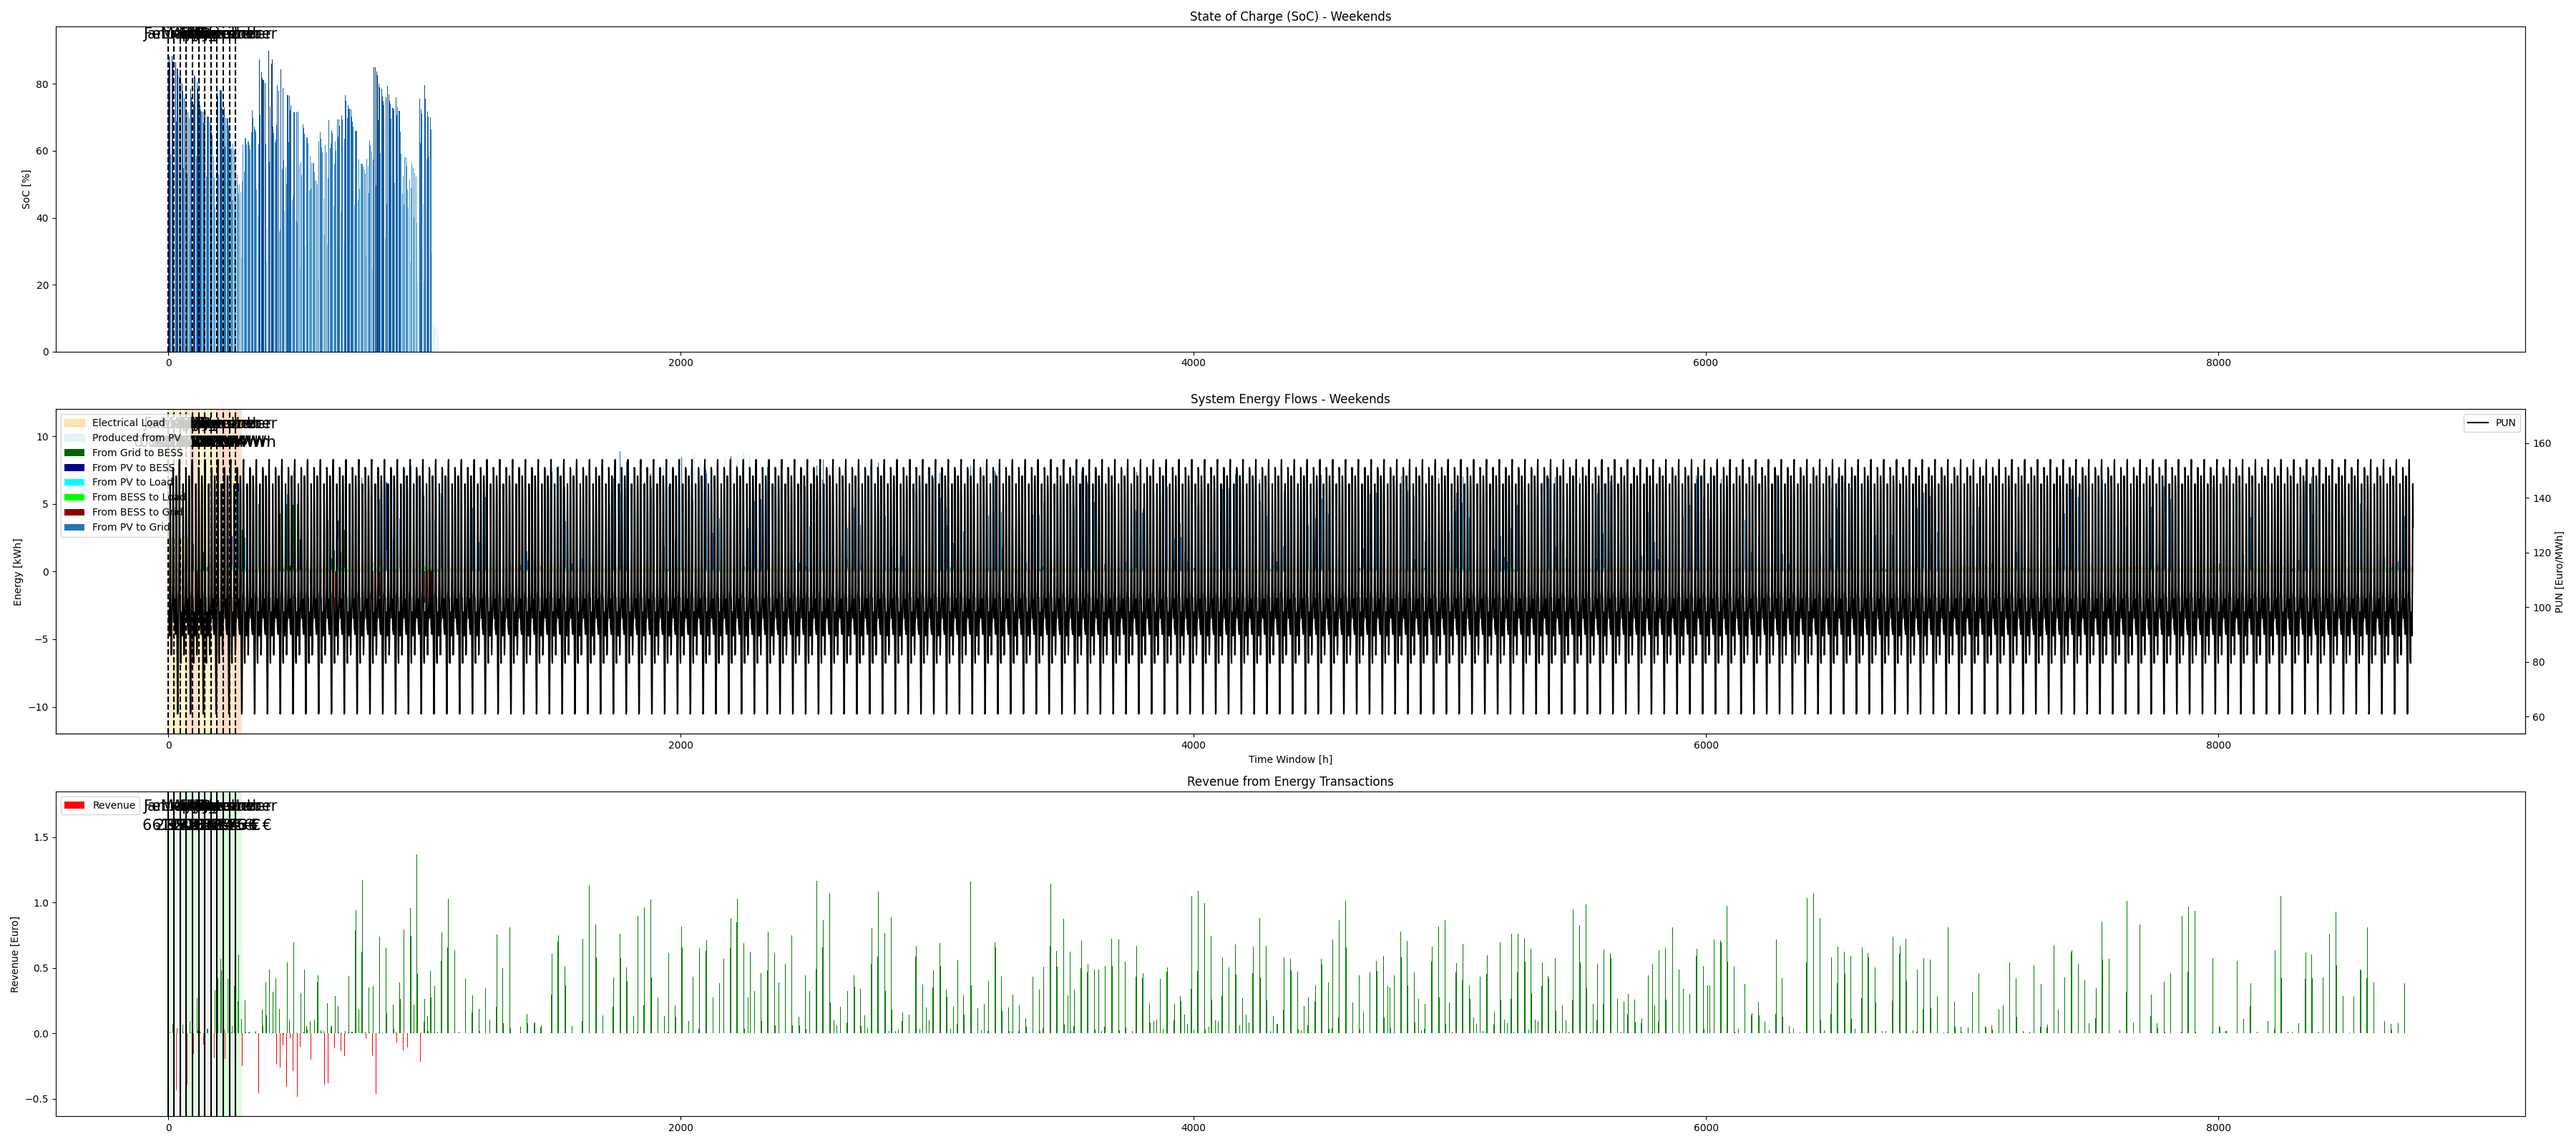
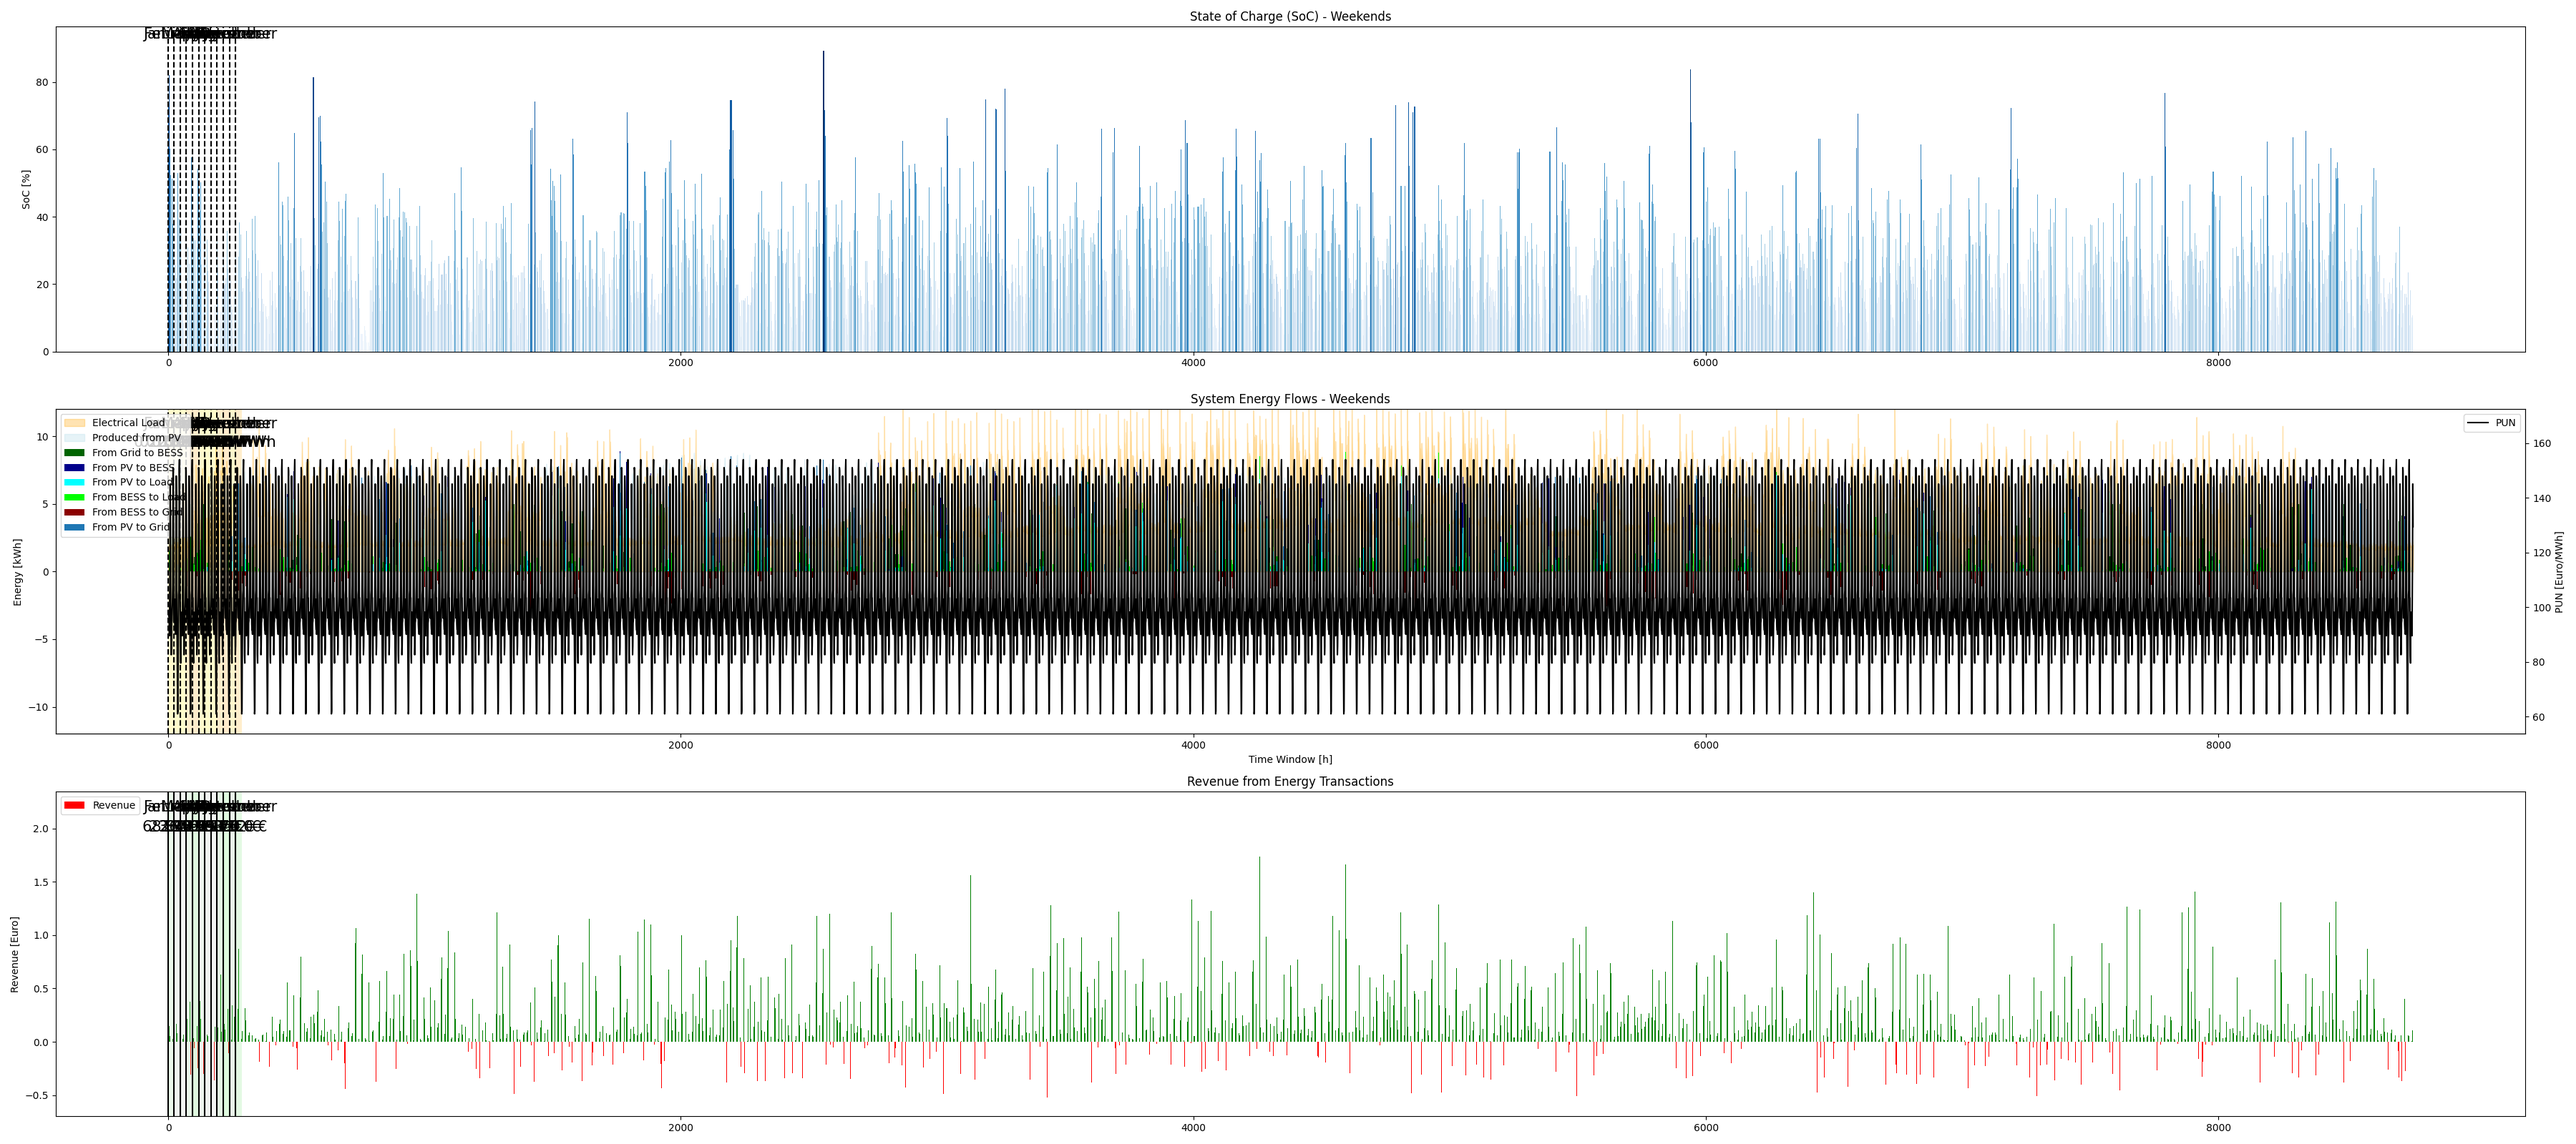
Working on long simulation tests

diff --git a/bess_optimization/Long Simulation/main_l.py b/bess_optimization/Long Simulation/main_l.py
@@ -18,14 +18,14 @@ import numpy as np  # Numerical operations
 import json  # JSON file handling
 from pymoo.core.problem import StarmapParallelization  # Parallelization for optimization
 from multiprocessing import Pool, cpu_count  # Multiprocessing utilities
-from objective_function_l import Revenues  # Objective function for revenue calculation
-from configuration_l import pop_size, soc_0, time_window, plot  # Configuration parameters
-from BESS_model_l import charge_rate_interpolated_func, discharge_rate_interpolated_func, size, technology, BESS_model  # BESS model functions and parameters
-from Economic_parameters_l import PUN_timeseries  # Economic parameters for pricing
-from Optimizer_l import Optimizer  # Optimization class
-from argparser_l import output_json_path, range_str, soc_min, power_energy, POD_power  # Argument parser parameters
-from Plots_l import EnergyPlots  # Plotting utilities
-from PV_l import pv_production  # Photovoltaic production data
+from objective_function import Revenues  # Objective function for revenue calculation
+from configuration import pop_size, soc_0, time_window, plot  # Configuration parameters
+from BESS_model import charge_rate_interpolated_func, discharge_rate_interpolated_func, size, technology, BESS_model  # BESS model functions and parameters
+from Economic_parameters import PUN_timeseries  # Economic parameters for pricing
+from Optimizer import Optimizer  # Optimization class
+from argparser import output_json_path, range_str, soc_min, power_energy, POD_power  # Argument parser parameters
+from Plots import EnergyPlots  # Plotting utilities
+from PV import pv_production  # Photovoltaic production data
 import subprocess
 
 # CREATION OF CLASS MAIN
@@ -94,7 +94,7 @@ class Main:
 
 
         # GET LOAD DATA
-        from Load_l import data
+        from Load import data
 
         # CALCULATE AND PRINT REVENUES
         self.calculate_and_print_revenues(self.charged_energy, self.discharged_energy, self.taken_from_grid,
@@ -117,11 +117,11 @@ class Main:
         Returns:
             tuple: Contains state of charge, charged energy, discharged energy, and other relevant data.
         """
-        from Load_l import data
-        from argparser_l import n_cycles  # Import number of cycles
-        from BESS_model_l import degradation
-        from argparser_l import n_cycles
-        from argparser_l import soc_max, soc_min
+        from Load import data
+        from argparser import n_cycles  # Import number of cycles
+        from BESS_model import degradation
+        from argparser import n_cycles
+        from argparser import soc_max, soc_min
 
         # GET CHARGE/DISCHARGE INTERPOLATED FUNCTIONS
         c_func = charge_rate_interpolated_func
@@ -172,7 +172,7 @@ class Main:
                                          + production[i])
 
             # EVALUATE THE LOAD SELF-CONSUMPTION AS MINIMUM BETWEEN LOAD AND THE ENERGY AVAILABLE
-            from argparser_l import (self_consumption)
+            from argparser import (self_consumption)
 
             if self_consumption == 'True':
                 load_self_consumption[i] = np.minimum(load[i], total_available_energy[
@@ -287,7 +287,7 @@ class Main:
         total_discharged = np.sum(-discharged_energy)
         total_energy = total_charged + total_discharged
 
-        from argparser_l import n_cycles
+        from argparser import n_cycles
 
         n_cycles_prev = n_cycles
         actual_capacity = size * degradation(n_cycles_prev) / 100
@@ -319,7 +319,7 @@ class Main:
     def plot_results(self, soc, charged_energy, discharged_energy, c_d_energy, PUN_Timeseries, taken_from_grid,
                      taken_from_pv, discharged_from_pv, self_consumption, from_pv_to_load,from_BESS_to_load,load):
 
-        from Load_l import data
+        from Load import data
 
         # EXECUTE PLOTS
         if plot:
@@ -405,7 +405,7 @@ if __name__ == "__main__":
     with open(json_file_path, 'w') as json_file:
         json.dump(data, json_file, indent=4)  # Write data to JSON file with indentation
 
-    from argparser_l import weekends, args2
+    from argparser import weekends, args2
 
     # OLD FLAG NOT INFLUENCING IN THE CURRENT STATE OF THE CODE
     if weekends == 'True':

diff --git a/bess_optimization/Long Simulation/objective_function.py b/bess_optimization/Long Simulation/objective_function.py
@@ -14,14 +14,14 @@ Last Update of current code: 09/01/2025 - 12:20
 """
 
 import numpy as np
-import configuration_l
-import Economic_parameters_l
+import configuration
+import Economic_parameters
 from pymoo.core.problem import ElementwiseProblem
-from BESS_model_l import BESS_model, charge_rate_interpolated_func, discharge_rate_interpolated_func, size
-from PV_l import pv_production
-from BESS_model_l import degradation
-from argparser_l import power_energy, POD_power
-from Load_l import data
+from BESS_model import BESS_model, charge_rate_interpolated_func, discharge_rate_interpolated_func, size
+from PV import pv_production
+from BESS_model import degradation
+from argparser import power_energy, POD_power
+from Load import data
 
 # DEFINE OPTIMIZATION PROBLEM
 class Revenues(ElementwiseProblem):
@@ -31,17 +31,17 @@ class Revenues(ElementwiseProblem):
 
     ) -> None:
         super().__init__(
-            n_var= configuration_l.n_var,
-            n_obj=configuration_l.n_obj,
-            xl= configuration_l.xl,
-            xu= configuration_l.xu,
+            n_var= configuration.n_var,
+            n_obj=configuration.n_obj,
+            xl= configuration.xl,
+            xu= configuration.xu,
             vtype=float,
             **kwargs,
 
         )
 
         # DEFINE REVENUES ATTRIBUTES FROM IMPORTER PARAMETERS - PUN and C/D Functions
-        self.PUN_timeseries = Economic_parameters_l.PUN_timeseries[:, 1]
+        self.PUN_timeseries = Economic_parameters.PUN_timeseries[:, 1]
         self.c_func, self.d_func = charge_rate_interpolated_func, discharge_rate_interpolated_func
 
         # DEFINE OBJECTIVE FUNCTION PARAMETERS - SoC, Charged/Discharged Energy (from BESS)
@@ -54,10 +54,10 @@ class Revenues(ElementwiseProblem):
         self.load_decision = np.zeros((len(self.PUN_timeseries)))
 
         # INITIALIZE SoC AT t=0
-        self.soc[0] = configuration_l.soc_0
+        self.soc[0] = configuration.soc_0
 
         # DEFINE TIME WINDOW AND BESS SIZE
-        self.time_window = configuration_l.time_window
+        self.time_window = configuration.time_window
         self.size = size
 
         # DEFINE PV PRODUCTION AND LOAD CONSUMTPION
@@ -69,8 +69,8 @@ class Revenues(ElementwiseProblem):
 
 
         # SET X-VECTOR TO BE OPTIMIZED AS THE % OF CHARGED AND DISCHARGED ENERGY FROM BESS
-        self.c_d_timeseries = np.array(x[:self.time_window]).reshape(configuration_l.time_window)
-        self.load_decision = np.array(x[self.time_window:2*self.time_window]).reshape(configuration_l.time_window)
+        self.c_d_timeseries = np.array(x[:self.time_window]).reshape(configuration.time_window)
+        self.load_decision = np.array(x[self.time_window:2*self.time_window]).reshape(configuration.time_window)
 
         # EVALUATE THE CHARGED AND DISCHARGED ENERGY AND UPDATE THE SoC FOR EACH TIMESTEP t
         # Create an instance of BESS_model
@@ -87,8 +87,8 @@ class Revenues(ElementwiseProblem):
         self.discharged_from_pv = np.zeros((len(self.PUN_timeseries)))
 
         # EXECUTE THE UPDATE FOR EACH i-th TIMESTEP OF ALL THE ENERGY VECTORS. EVALUATING ENERGY BALANCES
-        from argparser_l import n_cycles
-        from argparser_l import soc_max, soc_min
+        from argparser import n_cycles
+        from argparser import soc_max, soc_min
 
         for i in range(self.time_window - 1):
 
@@ -107,7 +107,7 @@ class Revenues(ElementwiseProblem):
             total_available_energy[i] = (np.minimum((self.soc[i] - soc_min) * size * power_energy, size * power_energy)
                                          + self.production[i])
 
-            from argparser_l import self_consumption
+            from argparser import self_consumption
 
             if self_consumption == 'True':
                 self.load_self_consumption[i] = np.minimum(self.load[i], total_available_energy[
@@ -225,7 +225,7 @@ class Revenues(ElementwiseProblem):
         total_discharged = np.sum(-self.discharged_energy_from_BESS)
         total_energy = total_charged + total_discharged
 
-        from argparser_l import n_cycles
+        from argparser import n_cycles
 
         n_cycles_prev = n_cycles
         actual_capacity = size * degradation(n_cycles_prev)/100

diff --git a/bess_optimization/Long Simulation/utils.py b/bess_optimization/Long Simulation/utils.py
@@ -1,11 +1,11 @@
-import ExcelOpener_l
-import Interpolator_l
+import ExcelOpener
+import Interpolator
 
 class Get_data:
     @staticmethod
     def get_data(file_path2, sheetname3):
         # Import data from an Excel file and a specific sheet using a method from the ExcelOpener module.
-        data = ExcelOpener_l.import_file.load_excel(file_path2, sheetname3)
+        data = ExcelOpener.import_file.load_excel(file_path2, sheetname3)
         # Return the imported data.
         return data
 
@@ -34,10 +34,10 @@ class BESS:
         # Select discharge rate DataFrame from rows 357 onwards of load_curve.
         discharge_rate = load_curve.iloc[357:, [0, 4, 5]]
         # Interpolate data for the charge rate.
-        charge_interpolator = Interpolator_l.DataInterpolator(charge_rate, 'SoC [%]', 'Charge Rate [kWh/(kWhp*h)]')
+        charge_interpolator = Interpolator.DataInterpolator(charge_rate, 'SoC [%]', 'Charge Rate [kWh/(kWhp*h)]')
         charge_rate_interpolated_func = charge_interpolator.interpolate()
         # Interpolate data for the discharge rate.
-        discharge_interpolator = Interpolator_l.DataInterpolator(discharge_rate, 'SoC [%]', 'Discharge Rate [kWh/(kWhp*h)]')
+        discharge_interpolator = Interpolator.DataInterpolator(discharge_rate, 'SoC [%]', 'Discharge Rate [kWh/(kWhp*h)]')
         discharge_rate_interpolated_func = discharge_interpolator.interpolate()
 
         # Return the interpolated functions for charge and discharge rates.

diff --git a/bess_optimization/Long Simulation/configuration.py b/bess_optimization/Long Simulation/configuration.py
@@ -15,8 +15,8 @@ Last Update of current code: 09/01/2025 - 17:00
 
 # IMPORT LIBRARIES AND MODULES FROM PROJECT FILES
 import numpy as np
-from argparser_l import soc
-from Economic_parameters_l import time_window
+from argparser import soc
+from Economic_parameters import time_window
 from pymoo.termination.robust import RobustTermination
 from pymoo.termination.xtol import DesignSpaceTermination
 from pymoo.algorithms.moo.nsga3 import NSGA3
@@ -27,7 +27,7 @@ from pymoo.operators.selection.tournament import TournamentSelection, compare
 from pymoo.util.ref_dirs import get_reference_directions
 from pymoo.core.termination import TerminateIfAny
 from pymoo.termination import get_termination
-from BESS_model_l import charge_rate_interpolated_func, discharge_rate_interpolated_func
+from BESS_model import charge_rate_interpolated_func, discharge_rate_interpolated_func
 
 # IDENTIFICATION OF MAX CHARGE AND DISCHARGE BESS CAPABILITY
 x = np.linspace(0, 1,1000)
@@ -102,7 +102,7 @@ n_gen = 3500
 
 # 8-bis) DEFINE TOLERANCE AS THE ALGORITHM INTERRUPTION CRITERIA
 tolerance = 10
-period = 5
+period = 15
 
 # number of iteration in which tolerance is evaluated
 

diff --git a/bess_optimization/Long Simulation/test.py b/bess_optimization/Long Simulation/test.py
@@ -15,10 +15,10 @@ Last Update of current code: 09/01/2025 - 17:38
 
 # IMPORT LIBRARIES
 
-import configuration_l
+import configuration
 from pymoo.optimize import minimize
-from objective_function_l import Revenues
-from configuration_l import plot
+from objective_function import Revenues
+from configuration import plot
 
 # DEFINE OPTIMIZER CLASS
 class Optimizer:
@@ -44,8 +44,8 @@ class Optimizer:
         if self.multiprocessing:
 
             problem = self._objective_function
-            algorithm = configuration_l.algorithm
-            termination = configuration_l.termination
+            algorithm = configuration.algorithm
+            termination = configuration.termination
 
             res = minimize(
 
@@ -64,8 +64,8 @@ class Optimizer:
         else:
 
             problem = self._objective_function
-            algorithm = configuration_l.algorithm
-            termination = configuration_l.termination
+            algorithm = configuration.algorithm
+            termination = configuration.termination
 
             res = minimize(
                 problem,

diff --git a/bess_optimization/Long Simulation/Optimizer.py b/bess_optimization/Long Simulation/Optimizer.py
@@ -14,10 +14,10 @@ Last Update of current code: 09/01/2025 - 17:38
 """
 
 # IMPORT LIBRARIES
-import configuration_l
+import configuration
 from pymoo.optimize import minimize
-from objective_function_l import Revenues
-from configuration_l import plot
+from objective_function import Revenues
+from configuration import plot
 
 
 # DEFINE OPTIMIZER CLASS
@@ -42,8 +42,8 @@ class Optimizer:
         if self.multiprocessing:
 
             problem = self._objective_function
-            algorithm = configuration_l.algorithm
-            termination = configuration_l.termination
+            algorithm = configuration.algorithm
+            termination = configuration.termination
 
             res = minimize(
 
@@ -62,8 +62,8 @@ class Optimizer:
         else:
 
             problem = self._objective_function
-            algorithm = configuration_l.algorithm
-            termination = configuration_l.termination
+            algorithm = configuration.algorithm
+            termination = configuration.termination
 
             res = minimize(
                 problem,

diff --git a/bess_optimization/Long Simulation/Plots.py b/bess_optimization/Long Simulation/Plots.py
@@ -22,7 +22,7 @@ import numpy as np
 import matplotlib.colors as mcolors
 import matplotlib.gridspec as gridspec
 from matplotlib.colors import Normalize
-from argparser_l import size, POD_power
+from argparser import size, POD_power
 
 matplotlib.use('Agg')
 
@@ -565,7 +565,7 @@ class EnergyPlots:
             ax2.text(11.5 + 23.92 * i, max(rev) + max(rev)*0.05, f'{rev_sums[i]} €', color="black", fontsize=15,
                      horizontalalignment='center')
 
-        from argparser_l import weekends
+        from argparser import weekends
 
         if weekends == 'True':
             ax1.set_title('System Energy Flows - Weekdays')
@@ -835,7 +835,7 @@ class EnergyPlots:
     @staticmethod
     def plot_degradation():
 
-        from BESS_model_l import degradation
+        from BESS_model import degradation
 
         # Generate cycle numbers from 0 to 7000
         cycles = np.arange(0, 7001,1,dtype=float)  # 7001 to include 7000

diff --git a/bess_optimization/Long Simulation/Load.py b/bess_optimization/Long Simulation/Load.py
@@ -1,9 +1,9 @@
-from argparser_l import input_load  # Importing input load parameter
-import ExcelOpener_l  # Module for opening Excel files
+from argparser import input_load  # Importing input load parameter
+import ExcelOpener  # Module for opening Excel files
 import pandas as pd  # Data manipulation and analysis
 
 # LOAD EXCEL FILE AND SPECIFIC SHEET
-df = ExcelOpener_l.import_file.load_excel(input_load, 'Sheet 1')
+df = ExcelOpener.import_file.load_excel(input_load, 'Sheet 1')
 
 # CONVERT 'Data' COLUMN TO DATETIME FORMAT
 df['Data'] = pd.to_datetime(df['Data'])

diff --git a/bess_optimization/Long Simulation/BESS_model.py b/bess_optimization/Long Simulation/BESS_model.py
@@ -17,8 +17,8 @@ Last Update of current code: 09/01/2025 - 12:18
 import numpy as np
 from utils import Get_data
 from utils import BESS
-from argparser_l import size, technology
-from argparser_l import soc_min, soc_max, power_energy, n_cycles
+from argparser import size, technology
+from argparser import soc_min, soc_max, power_energy, n_cycles
 
 # SETTING ST FILE PATHS
 file_path = r"data/Input/BESS Data.xlsx"

diff --git a/bess_optimization/Long Simulation/PV.py b/bess_optimization/Long Simulation/PV.py
@@ -1,12 +1,12 @@
 import pandas as pd
-from argparser_l import input_PV
+from argparser import input_PV
 
 # File path
 file_path = input_PV
 
 pv_production = pd.read_csv(file_path, sep=';', usecols=['time', 'P'])
 
-from argparser_l import PV_power
+from argparser import PV_power
 
 pv_production['P'] = pv_production['P'] * PV_power / 1000
 

diff --git a/bess_optimization/Long Simulation/Economic_parameters.py b/bess_optimization/Long Simulation/Economic_parameters.py
@@ -15,7 +15,7 @@ Last Update of current code: 09/01/2025 - 17:36
 
 # IMPORT LIBRARIES
 import pandas as pd
-from argparser_l import input_json_path
+from argparser import input_json_path
 
 # SET PATH FILE
 json_file_path = input_json_path
